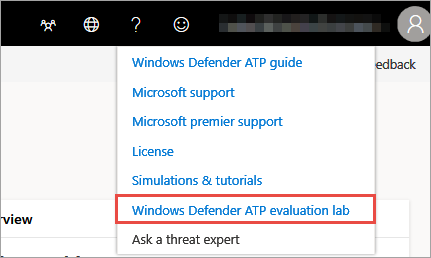
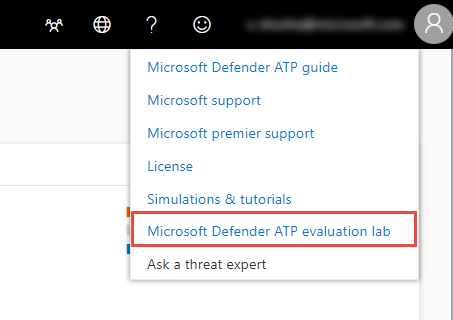
image update

Changed region(s): [[0.0, 0.0, 1.0, 1.0], [0.0, 0.8992, 0.2715, 0.9302], [0.0, 0.8062, 0.0905, 0.8682]]

diff --git a/windows/security/threat-protection/microsoft-defender-atp/evaluation-lab.md b/windows/security/threat-protection/microsoft-defender-atp/evaluation-lab.md
@@ -18,7 +18,7 @@ ms.topic: article
 
 # Microsoft Defender ATP evaluation lab
 **Applies to:**
-- [Windows Defender Advanced Threat Protection (Windows Defender ATP)](https://go.microsoft.com/fwlink/p/?linkid=2069559)
+- [Microsoft Defender Advanced Threat Protection (Windows Defender ATP)](https://go.microsoft.com/fwlink/p/?linkid=2069559)
 
 Conducting a comprehensive security product evaluation can be a complex process requiring cumbersome environment and machine configuration before an end-to-end attack simulation can actually be done. Adding to the complexity is the challenge of tracking where the simulation activities, alerts, and results are reflected during the evaluation.
 
@@ -64,7 +64,7 @@ The machine will automatically be onboarded to your tenant with the recommended 
 
 
 
-1. Select the help icon > **Windows Defender ATP evaluation lab**.
+1. Select the help icon > **Microsoft Defender ATP evaluation lab**.
 
     ![Image of the help icon with the evaluation lab menu](images/evaluation-lab-menu.png)
 
@@ -87,16 +87,16 @@ The machine will automatically be onboarded to your tenant with the recommended 
     >[!NOTE]
     >The password is only displayed once. Be sure to save it for later use.
 
-5. The machine will be setup. This may take approximately 30 minutes. 
+5. Machine set up begins. This can take up to approximately 30 minutes. 
 
-The environment will reflect your test machine status through the evaluation - including risk score, exposure score, and alerts fired through the simulation.
+The environment will reflect your test machine status through the evaluation - including risk score, exposure score, and alerts created through the simulation.
 
 ## Simulate attack scenarios
 Use the test machines to run attack simulations by connecting to them. 
 
 If you are looking for a pre-made simulation, you can use our ["Do It Yourself" attack scenarios](https://securitycenter.windows.com/tutorials). These scripts are safe, documented, and easy to use. These scenarios will reflect Microsoft Defender ATP capabilities and walk you through investigation experience.
 
-You can also use [Advanced hunting](advanced-hunting-windows-defender-advanced-threat-protection.md) to query data and [Threat analytics](threat-analytics.md) to view reports about emerging threats.
+You can also use [Advanced hunting](advanced-hunting.md) to query data and [Threat analytics](threat-analytics.md) to view reports about emerging threats.
 
 1. Connect to your machine and run an attack simulation by selecting **Connect**. 
 
@@ -109,6 +109,7 @@ You can also use [Advanced hunting](advanced-hunting-windows-defender-advanced-t
     >[!NOTE]
     >If you don't have a copy of the password saved during the initial setup, you can reset the password by selecting **Reset password** from the menu:
     > ![Image of reset password](images/reset-password-test-machine.png)
+    > The machine will change it’s state to “Executing password reset", then you’ll be presented with your new password in a few minutes.
 
 3. Enter the password that was displayed during the machine creation step. 
 
@@ -123,11 +124,7 @@ Hunt for attack evidence through Advanced hunting by using the rich query langua
 
 
 ## Simulation results
-
-<!---
-Check out the simulation overview appear in your lab, clicking on the incidents, alerts and actions will lead you to our incidents queue, alerts queue, and investigations queue, allowing you to deep-dive into the relevant alerts and investigations and explore the rich context provided on your simulated attack.
-
---->
+Get a full overview of the simulation results, all in one place, allowing you to drill down to the relevant pages with every detail you need.
 
 View the machine details page by selecting the machine from the table. You'll be able to drill down on relevant alerts and investigations by exploring the rich context provided on the attack simulation. 
 
@@ -137,5 +134,5 @@ Your feedback helps us get better in protecting your environment from advanced a
 
 Let us know what you think, by selecting **Provide feedback**.
 
-![Image of provide feedback](images/eval-feedback.png.png)
+![Image of provide feedback](images/eval-feedback.png)
 
